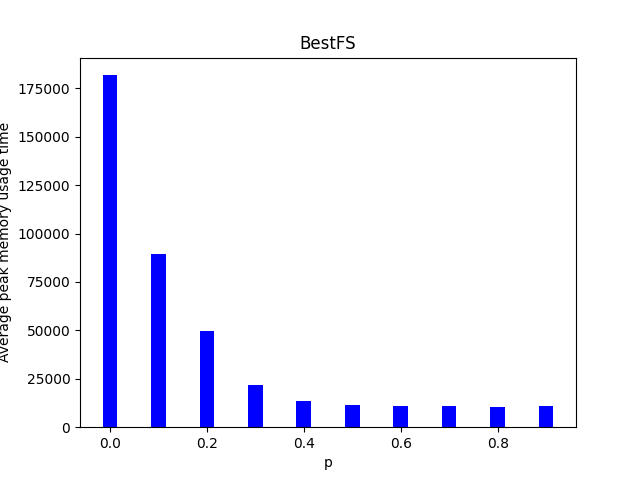
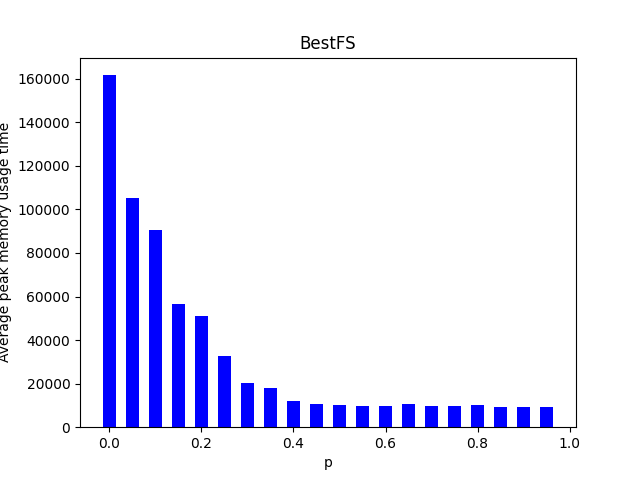
update

diff --git a/test.py b/test.py
@@ -9,10 +9,10 @@ import tracemalloc
 
 PUZZLE_SIZE = 9
 SUB_GRID = int(math.sqrt(PUZZLE_SIZE))
-NUM_OF_CATEGORIES = 10
+NUM_OF_CATEGORIES = 20
 STEP = 1/NUM_OF_CATEGORIES
-NUM_OF_INSTANCES = 5
-NUM_OF_REPEAT = 5
+NUM_OF_INSTANCES = 10
+NUM_OF_REPEAT = 10
 
 def is_valid(board, row, col, num):
     # Check if the number is already present in the current row
@@ -275,10 +275,10 @@ def solve_puzzle(is_read_from_file=False, type_algorithm="DFS"):
                 def repeat(share_avg_execution_time_dfs, share_avg_peak_memory_usage_dfs, share_avg_execution_time_bestfs, share_avg_peak_memory_usage_bestfs):
                     #DFS
                     start_time = time.time()
-                    # peak_memory_usage = resource.getrusage(resource.RUSAGE_SELF).ru_maxrss
                     tracemalloc.start()
+                    peak_memory_usage = tracemalloc.get_traced_memory()[0]
                     solved_board = DFS((puzzle))
-                    peak_memory_usage = tracemalloc.get_traced_memory()[1]
+                    peak_memory_usage = peak_memory_usage - tracemalloc.get_traced_memory()[0]
                     tracemalloc.stop()
                     # peak_memory_usage = resource.getrusage(resource.RUSAGE_SELF).ru_maxrss - peak_memory_usage
                     end_time = time.time()
@@ -291,10 +291,10 @@ def solve_puzzle(is_read_from_file=False, type_algorithm="DFS"):
                         share_avg_peak_memory_usage_dfs[i] += peak_memory_usage
                     #BestFS
                     start_time = time.time()
-                    # peak_memory_usage = resource.getrusage(resource.RUSAGE_SELF).ru_maxrss
                     tracemalloc.start()
+                    peak_memory_usage = tracemalloc.get_traced_memory()[0]
                     solved_board = best_first_search((puzzle))
-                    peak_memory_usage = tracemalloc.get_traced_memory()[1]
+                    peak_memory_usage = peak_memory_usage - tracemalloc.get_traced_memory()[0]
                     tracemalloc.stop()
                     # peak_memory_usage = resource.getrusage(resource.RUSAGE_SELF).ru_maxrss - peak_memory_usage
                     end_time = time.time()
